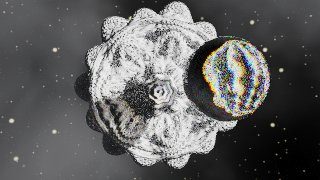
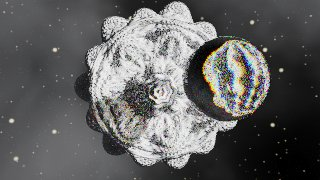
feat: the beam seen in the air: the fog scatters it, photons scatter in it past a glass
The volumetric fog scatters the beam along the camera rays as it did the sun,
analytically against the beam's cylinder (its free length from one march per
pixel along the axis, eight steps with the fog's extinction and the soft edge,
no march per step: a marcher inlined inside that loop sent the compiler past
its cliff and nothing compiled). Past a glass, mirror or metal, a photon may
scatter in the fog before its next surface and is connected to the camera from
there with the phase function and the fog's albedo: the cone a lens makes of
the beam, seen in the air.

The beam's draw and its glow compile in under EXTRA_BEAM, present only when the
additional light is a beam: measured at 2 to 3 s of compile per program, no
other scene pays it. Preset BEAM_FOG. RenderRegression bit-exact, the beam's
convergence probe unchanged.

diff --git a/src/main/java/org/fractalizer/test/PresetForge.java b/src/main/java/org/fractalizer/test/PresetForge.java
@@ -294,6 +294,20 @@ public class PresetForge {
                 .beam(-2.5f, 0.6f, 0.0f, 1.0f, -0.15f, 0.0f, 0.12f, 6.0f, 1.0f, 0.97f, 0.9f, 12.0f)
                 .colorStrength(1.0f).metalness(0.0f));
 
+        // The beam in fog onto a glass ball: the beam seen in the air (the camera rays' march),
+        // the ball's caustic and the beam's light through the ball seen in the air (photons).
+        p.put("BEAM_FOG", () -> SceneBuilder.nodeGraph(SceneBuilder.union(SceneBuilder.slab(2.6f), SceneBuilder.glassBall(0.4f, 1.5f, 0.02f)))
+                .camera(0.6f, 1.4f, -3.0f).lookAt(0f, 0.35f, 0f).fov(42)
+                .gradient(CRYSTAL).coloringMode(0)
+                .materialType(0).ior(1.5f).dispersion(0.02f).roughness(0.6f)
+                .pathTracing(true).maxBounces(6).rimIntensity(0.0f).skyType(3)
+                .lightDir(0.3f, 1.0f, -0.4f).lightColor(1.0f, 0.98f, 0.95f).lightIntensity(0.1f)
+                .ambientColor(0.5f, 0.55f, 0.65f).ambientIntensity(0.03f)
+                .beam(-2.5f, 0.55f, 0.0f, 1.0f, -0.05f, 0.0f, 0.1f, 6.0f, 1.0f, 0.97f, 0.9f, 14.0f)
+                .fog(0.25f).fogColor(0.8f, 0.85f, 0.9f)
+                .caustics(3.0f).causticPhotons(512)
+                .colorStrength(1.0f).metalness(0.0f));
+
         p.put("CAUSTIC_BALL", () -> SceneBuilder.nodeGraph(SceneBuilder.union(SceneBuilder.glassBall(0.5f, 1.5f, 0.02f), SceneBuilder.slab(2.6f)))
                 .camera(0f, 1.7f, -3.4f).lookAt(0f, 0.35f, 0f).fov(42)
                 .gradient(CRYSTAL).coloringMode(0)

diff --git a/src/main/java/org/fractalizer/ui/GLSLFractalizerController.java b/src/main/java/org/fractalizer/ui/GLSLFractalizerController.java
@@ -262,12 +262,15 @@ public class GLSLFractalizerController implements RenderController {
     private static String nodeGraphDefines(NodeGraphParams ngp) {
         return (ngp.getDetailLOD() > 0f ? "#define DETAIL_LOD\n" : "")
              + (org.fractalizer.render.LightList.hasEmitters(ngp.getGraphRoot()) ? "#define HAS_EMITTERS\n" : "")
-             + (causticsActive(ngp) ? "#define BIDIR\n" : "");
+             + builtinDefines(ngp);
     }
 
-    /** The defines of a built-in kernel scene: BIDIR with caustics, nothing otherwise. */
+    /** The defines every scene may carry: BIDIR with caustics, EXTRA_BEAM when the additional
+     *  light is a beam (its draw and its glow in the fog cost a few seconds of compile, so
+     *  only a scene with a beam pays them). Nothing otherwise. */
     private static String builtinDefines(AbstractFractalParams p) {
-        return causticsActive(p) ? "#define BIDIR\n" : "";
+        return (causticsActive(p) ? "#define BIDIR\n" : "")
+             + (p.getExtraLightType() == AbstractFractalParams.EXTRA_LIGHT_BEAM ? "#define EXTRA_BEAM\n" : "");
     }
 
     /** The scene's light table: the graph's emitters, and with caustics on the sun and the

diff --git a/docs/RENDERING.md b/docs/RENDERING.md
@@ -562,7 +562,33 @@ light's position along its direction, its radius is the *Area / Beam Radius*, it
 irradiance is the intensity, with no falloff (it is collimated); a point is lit when nothing
 sits between it and the beam's source plane, marched back along the axis. Sun-like in the
 shading, so it works in classic and path-traced modes alike; with caustics on it sends
-photons like the sun.
+photons like the sun. Its draw and its glow in the fog compile in under `EXTRA_BEAM`, a
+define present only when the additional light is a beam: measured on the built-in shaders,
+the draw alone cost 2 to 3 s of compile per program, and no scene without a beam pays it.
+
+### The medium: the beam seen in the air (after 3.2.2)
+
+A beam in a vacuum is invisible; the picture of a beam through a prism is a picture of fog.
+The volumetric fog (Quality panel) scattered the sun along the camera rays, one shadow march
+per step; it scatters the beam too now. Not with a second march per step: a full marcher
+inlined inside that loop sent the NVIDIA compiler past its cliff and no program compiled
+within five minutes (ShaderCompileProbe is how to see that). Instead the beam's cylinder is
+intersected with the camera ray analytically, the segment is clipped to the beam's free
+length (one march per pixel along the axis, to the first surface), and the in-scattering is
+integrated over it with the fog's extinction and the beam's soft edge in eight steps and no
+march. The beam's light past a glass (the cone a lens makes of it) is the photon pass's:
+past a glass, mirror or metal a photon may scatter in the fog before its next surface, at a
+distance drawn from the fog's density, and it is connected to the camera from there, with
+the phase function and the fog's albedo (its colour), the connection attenuated as the
+camera rays are. Before such a vertex the photon flies straight: its direct light in the
+fog is the camera rays' march. Neither the photon's flight nor the path tracer's bounces are
+attenuated by the fog, the same approximation on both sides, so the caustic paths keep
+agreeing (BidirProbe's beam scene: 0.02 %).
+
+`presets/BEAM_FOG.frac` shows it: the beam across a foggy slab into a glass ball, seen in
+the air before the ball, focused into a cone seen in the air behind it, with a caustic on
+the slab. The cone is the photons' and is grainy until the samples accumulate; the incoming
+beam is the march's and is smooth from the first sample.
 
 For a beam aimed at something, the light has to stay put while the camera moves, so the
 additional light can now be *Fixed in the world*: position and direction are then scene

diff --git a/IDEAS.md b/IDEAS.md
@@ -141,7 +141,8 @@ bidirectional compiles in under its own define: the fast path stays byte-identic
    fixable in the world (done);
 3. the photon pass emitting from every light of the list, with MIS weights in both tracers
    in place of the split rules (done; BidirProbe is the proof);
-4. the medium: single scattering along camera rays from the list, and along photon paths;
+4. the medium: the beam scattered along camera rays, photons scattering in the fog past a
+   glass (done; see docs/RENDERING.md § The medium);
 5. a triangular prism primitive and the beam-through-prism preset and probe.
 
 The follow-ups the photon pass alone leaves open:
